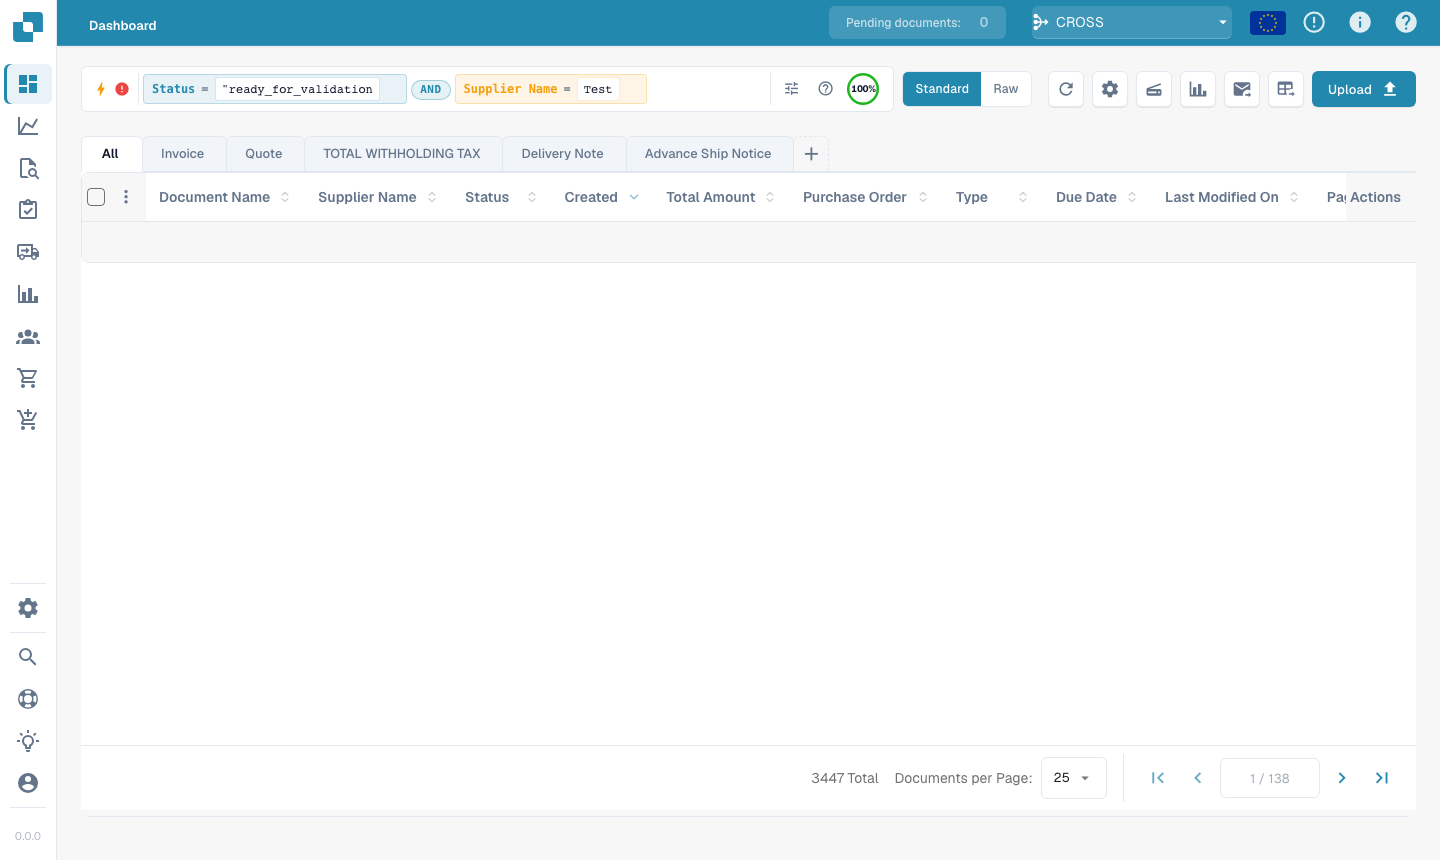
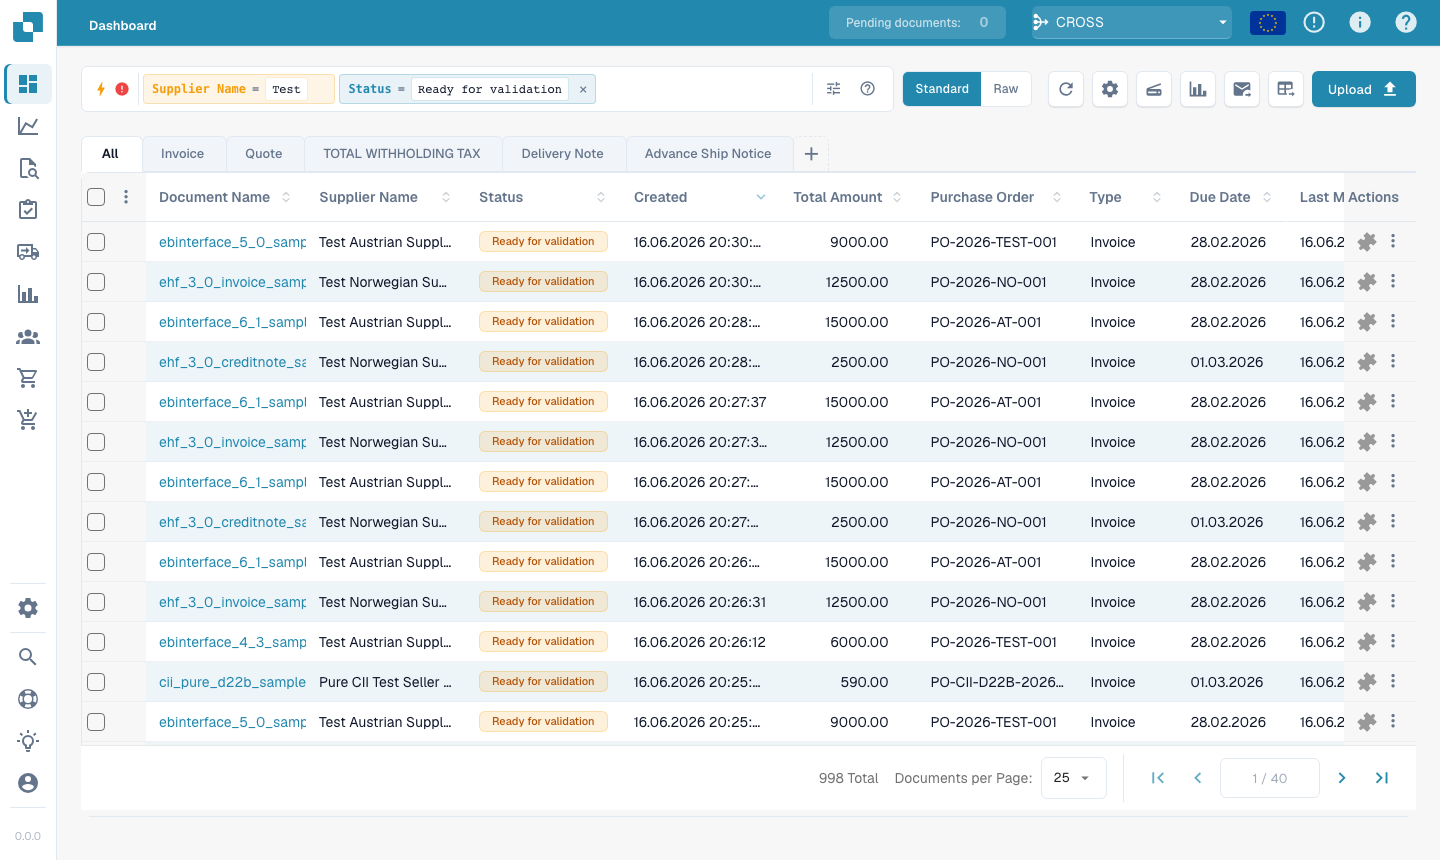
docs(quick-search): fix combined + vector shots, add grouping screenshot
- Combined: supplier-first ordering so both predicates apply (was showing all
  ready docs because the quoted status value + fulltext routing dropped supplier=Test).
- Vector: query 'supplier invoice' returns results (office-supplies query was empty
  on this dataset); caption updated.
- Added quick_search_16_grouping.png + figure to the Grouping results section
  (group by supplier_name -> collapsible per-supplier headers).
- Multi-predicate queries now commit each chip separately in the capture script.

diff --git a/readme/end-user-and-partner-section/end-user-section/dashboard/quick-search.md b/readme/end-user-and-partner-section/end-user-section/dashboard/quick-search.md
@@ -261,6 +261,8 @@ The list then shows collapsible **group headers**, each with the group's name an
 a **count** (e.g. *Ruiz Foods (12)*). Click a header to expand or collapse that
 group. For date fields you can group by **day, week or month**.
 
+<figure><img src="../../../.gitbook/assets/quick_search_16_grouping.png" alt="Results grouped by supplier with collapsible headers"><figcaption><p><code>group by supplier_name</code> — results collapse into one expandable header per supplier.</p></figcaption></figure>
+
 Grouping combines with any filter — `status=ready_for_validation group by
 supplier_name` groups only the matching documents. Clicking into a group
 **drills down**: it applies that group's value as a filter and returns you to the
@@ -354,7 +356,7 @@ vector: invoices about office supplies
 vector: shipping delays with Hamburg port
 ```
 
-<figure><img src="../../../.gitbook/assets/quick_search_17_vector.png" alt="Semantic vector search results"><figcaption><p><code>vector: invoices about office supplies</code> — semantically related documents, even without those exact words.</p></figcaption></figure>
+<figure><img src="../../../.gitbook/assets/quick_search_17_vector.png" alt="Semantic vector search results"><figcaption><p><code>vector: supplier invoice</code> — semantically related documents, even without those exact words.</p></figcaption></figure>
 
 ### OCR text search — `ocr:`
 
